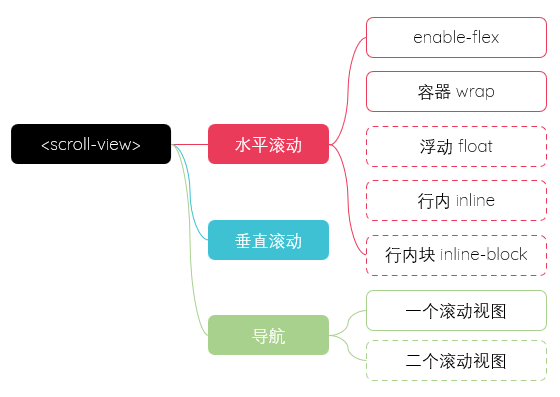
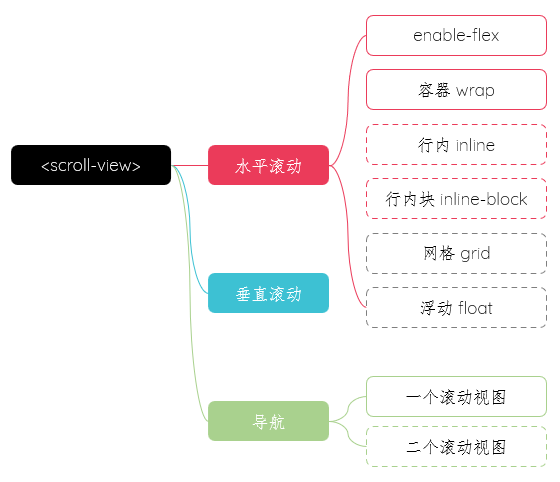
up

diff --git a/course/online_nf.html b/course/online_nf.html
@@ -501,7 +501,7 @@
       <figcaption>水平滚动右侧</figcaption>
     </figure>
     <div class="mt2">2. 实现方案</div>
-    <div>方案1 小程序方案</div>
+    <div>实现1 小程序方案</div>
     <ul>
       <li>指定水平方向 scroll-x</li>
       <li>启用弹性盒子 enable-flex 属性</li>
@@ -531,7 +531,7 @@
   margin-right: 20rpx;// 额外指定间隔
 }</pre>
     </ul>
-    <div class="mt2">方案2 推荐方案</div>
+    <div class="mt2">实现2 推荐方案</div>
     <ul>
       <li>结构：增加一个容器 wrap</li>
       <pre>
@@ -559,12 +559,56 @@
   border-radius: 20rpx;
 }</pre>
     </ul>
-    <div class="mt2">方案3 浮动 float 方案</div>
-    <div>. 自行体会完成</div>
-    <div class="mt2">方案4 行内 inline 方案</div>
-    <div>. 自行体会完成</div>
-    <div class="mt2">方案5 行内块 inline-block 方案</div>
-    <div>. 自行体会完成</div>
+    <div class="mt2">实现3 行内 inline 方案</div>
+    <ul>
+      <li>自行完成并体会其特点</li>
+      <li>参考结构</li>
+      <pre>
+&lt;scroll-view class="scroll-view scroll-x"&gt;
+  &lt;text class="text"&gt;Lorem.&lt;/text&gt;
+  &lt;text class="text"&gt;Eum.&lt;/text&gt;
+  &lt;text class="text"&gt;Rerum.&lt;/text&gt;
+  &lt;text class="text"&gt;Blanditiis?&lt;/text&gt;
+  &lt;text class="text"&gt;Officiis!&lt;/text&gt;
+&lt;/scroll-view&gt;</pre>
+      <li>参考样式</li>
+      <pre>
+.scroll-view {
+  white-space: nowrap;
+}
+
+.text {
+  padding: 0 20px;
+}</pre>
+    </ul>
+    <div class="mt2">实现4 行内块 inline-block 方案</div>
+    <ul>
+      <li>自行完成并体会其特点</li>
+      <li>参考结构</li>
+      <pre>
+&lt;scroll-view class="scroll-view scroll-x"&gt;
+  &lt;view class="text"&gt;Lorem.&lt;/view&gt;
+  &lt;view class="text"&gt;Eum.&lt;/view&gt;
+  &lt;view class="text"&gt;Rerum.&lt;/view&gt;
+  &lt;view class="text"&gt;Blanditiis?&lt;/view&gt;
+  &lt;view class="text"&gt;Officiis!&lt;/view&gt;
+&lt;/scroll-view&gt;</pre>
+      <li>参考样式</li>
+      <pre>
+.scroll-view {
+  white-space: nowrap;
+}
+
+.text {
+  display: inline-block;//必须
+  // display: inline; //ok
+  padding: 0 20px;
+}</pre>
+    </ul>
+    <div class="mt2">实现5 尝试网格 grid 方案</div>
+    <div class="mt2">实现6 尝试浮动 float 方案</div>
+    <div class="mt2">[<span class="iconfont icon-bell"></span>] 体会练习</div>
+    <div class="">[<span class="iconfont icon-bell"></span>] 总结讲评</div>
     <div class="mt2">[<span class="iconfont icon-black-keyboard-with-white-keys"></span>] 垂直滚动</div>
     <div class="mt2">1. 效果参考</div>
     <figure>
